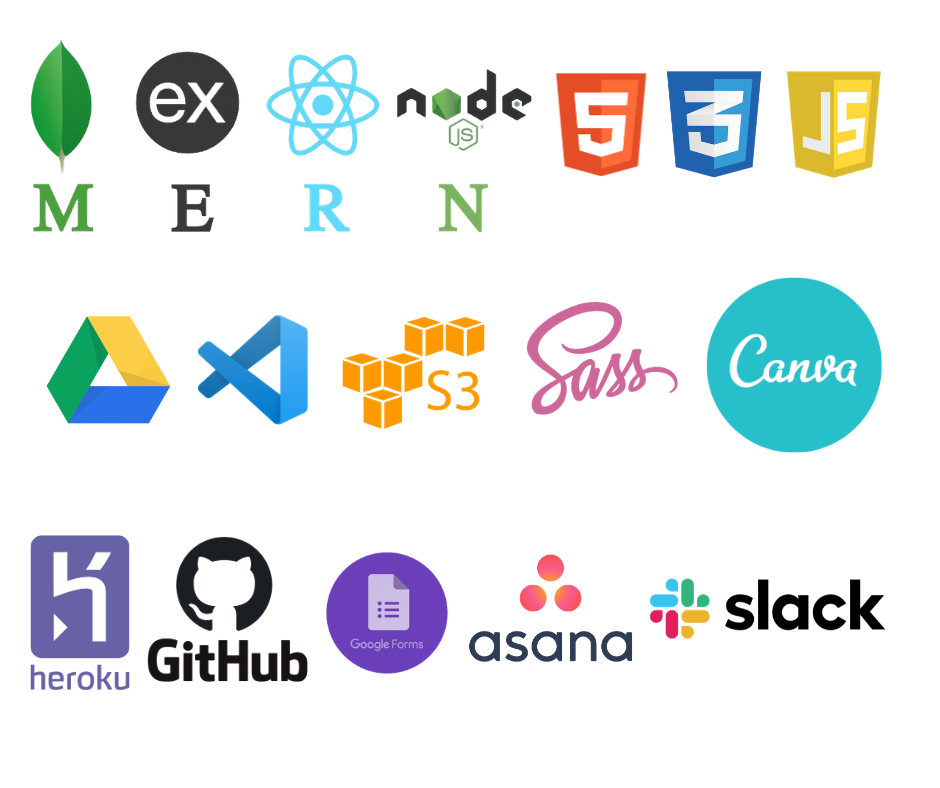
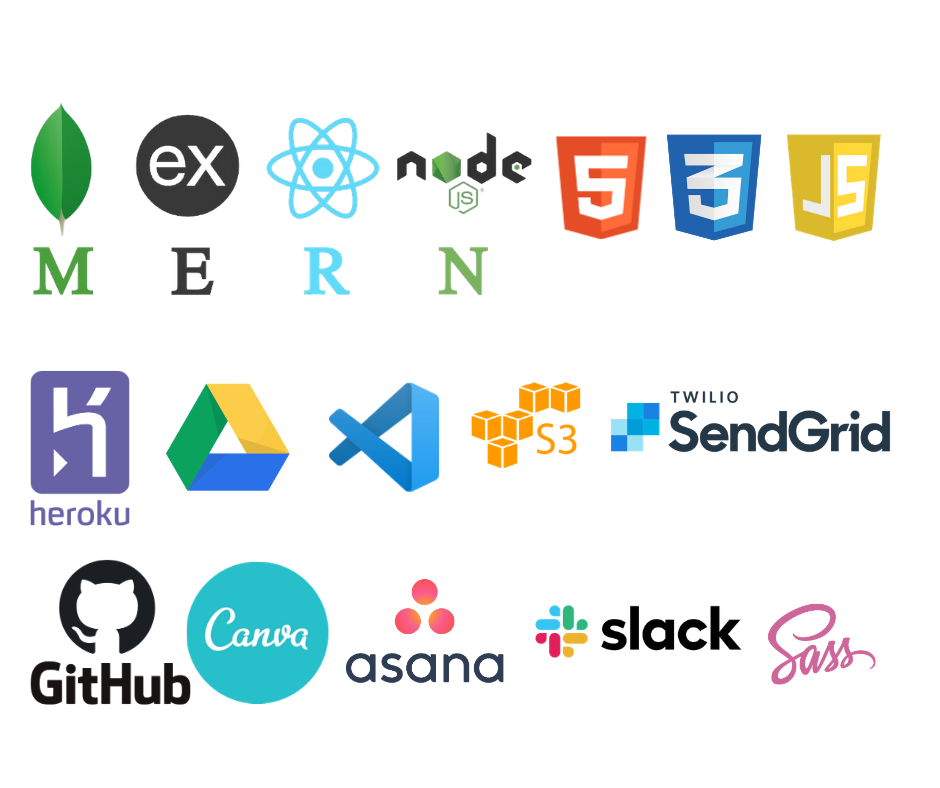
added target audience

Changed region(s): [[0.0309, 0.0609, 0.9564, 0.9137]]

diff --git a/final_assmt_readme.md b/final_assmt_readme.md
@@ -5,6 +5,44 @@
 - Ragan
 
 ***
+###Purpose
+
+- Showcase Bronte’s abilities/services
+- Attract potential clients
+- Keep clients/viewers up to date with Bronte’s activities
+- Show Bronte’s contact details for future business
+
+The purpose of Bronte’s portfolio website is to showcase her photography, design services and blog to potential clients and general browsers. The website will be a platform where a potential client can view Bronte’s previous work, browse through her services and be able to contact Bronte for future business. Though the website is looking to generate business the main purpose is to showcase Bronte’s art and life in an online medium. 
+
+The website will present Bronte’s previous work in a way which matches the style of her photography employing a minimalist approach. The purpose of this is to create a frame for Bronte’s art which compliments the photography and entice potential clients/general users to explore the website further. 
+
+The blog component of the website aims to be a platform for self-expression and keeping potential clients/general browsers up-to-date with her current projects and life. The blog will maintain the minimalist theme of the website and be another way to generate interest in Bronte’s life and work. 
+
+***
+
+###Target Audience
+
+- Bronte (client)
+- Prospective clients (of Bronte)
+- General browsers 
+
+The target audience of the portfolio website is divided into three groups: **Bronte, prospective clients and general browsers.** While the way in which prospective clients and general browsers will consume the website will be similar, Bronte's use of the website will be completely different. 
+
+As the primary user of the website, ***Bronte*** will be the main target audience and given admin access to create, read, update and delete resources from the website. This access is given so Bronte has full control over the published content and provides choice of what she wishes to showcase. The website will be built in a way which allows Bronte to easily add/edit content to provide that choice and improve the maintainability of the website. 
+
+In addition to Bronte, the target audience of the website includes ***prospective clients***. To cater to this audience the website will employ vivid imagery, animations and clear navigation tools to entice prospective clients to explore the website further. Ideally, a prospective client will navigate through the entire website to view Bronte’s work, services, blog and, most importantly, contact details. A contact form will be provided so that a prospective client can fill in their name, contact details and business enquiry so that Bronte can get in touch and discuss the enquiry further.  
+
+The website aims to attract an audience of ***general browsers*** to view Bronte’s art and blog. By employing vivid imagery, animations and clear navigation tools general browsers can easily navigate through the website to view Bronte’s overall style and be interested in her blog. Both prospective clients and general browsers will have read only access rights to protect the integrity of the website’s content. 
+
+
+
+***
+
+###Tech stack
+
+![](./tech_stack.png)
+
+***
 
 ###Screenshots of your Trello board throughout the duration of the project
 
@@ -27,6 +65,8 @@ It's also been divided into days as we go, to keep track of what we want to acco
 ####**Part B** 
 
 Contains tasks related to the programming of the project.
+
+Part B contains a checklist of tasks related to the rubric requirements for the project, to ensure we don't stray from the brief.
 
 This section details client-provided parameters for what should be on each page and the style guidelines.
 
@@ -81,3 +121,4 @@ ABOUT ME
 
 ![](./image_click.png)
 ![](./phone_menu_click.png)
+![](./gallery_images.png)
